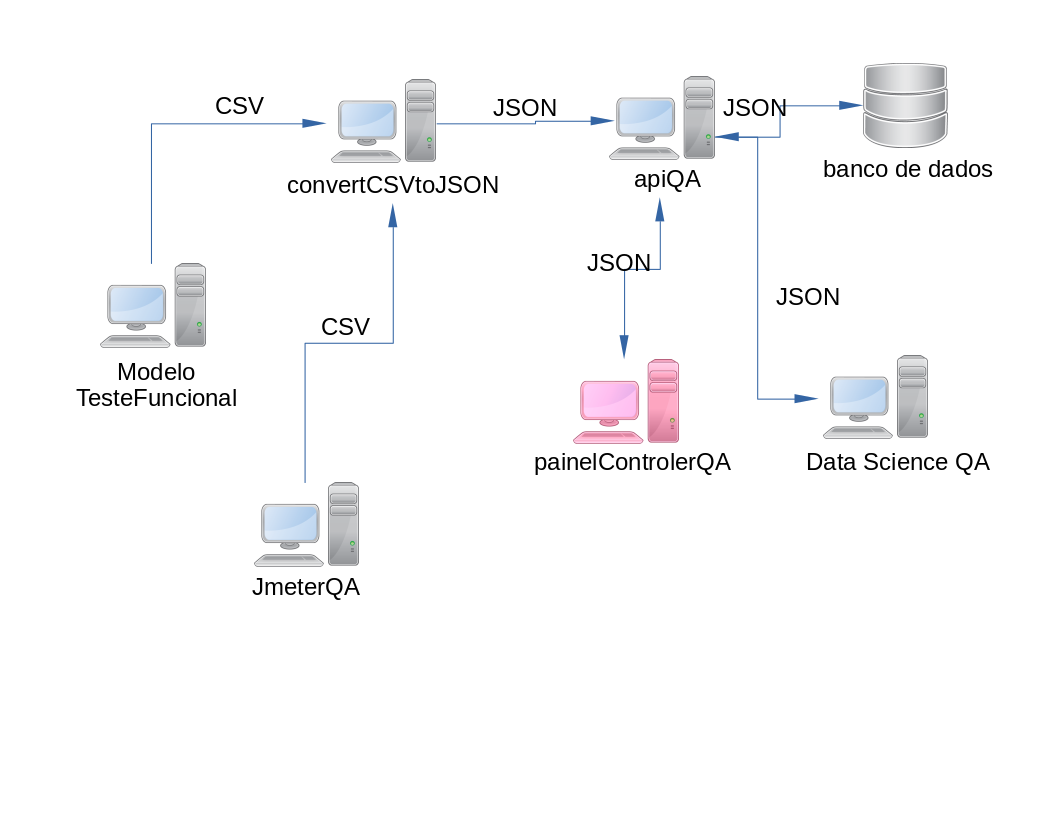
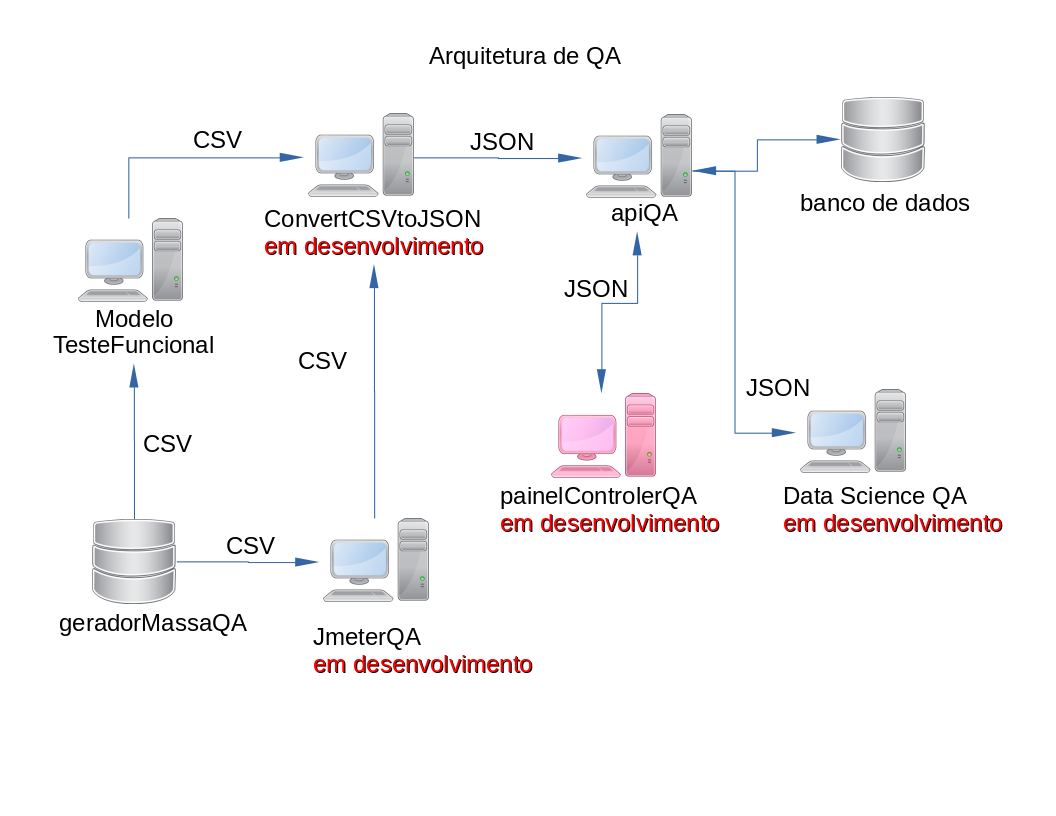
diagrama

diff --git a/README.md b/README.md
@@ -8,13 +8,7 @@
 
 
 ![Semantic description of image](./diagrama.png)</p>
-<h3> &nbsp;&nbsp;&nbsp;&nbsp;&nbsp;&nbsp;&nbsp;&nbsp;&nbsp;&nbsp;&nbsp;&nbsp;&nbsp;
-&nbsp;&nbsp;&nbsp;&nbsp;&nbsp;&nbsp;&nbsp;&nbsp;&nbsp;&nbsp;&nbsp;&nbsp;&nbsp;
-&nbsp;&nbsp;&nbsp;&nbsp;&nbsp;&nbsp;&nbsp;&nbsp;&nbsp;&nbsp;&nbsp;&nbsp;&nbsp;
-&nbsp;&nbsp;&nbsp;&nbsp;&nbsp;&nbsp;&nbsp;&nbsp;&nbsp;&nbsp;&nbsp;&nbsp;&nbsp;
-&nbsp;&nbsp;&nbsp;&nbsp;&nbsp;&nbsp;&nbsp;&nbsp;&nbsp;&nbsp;&nbsp;&nbsp;&nbsp;
- Arquitetura do projeto </h3>
- 
+
 > ** Ferramentas de desenvolvimento ** </br>
 > * Angular - versão 8
 > * BootStrap
@@ -31,6 +25,12 @@
 
 > __convert CSV to JSON__
 > [GitHub Pages](https://github.com/marcosregato/convertCSVtoJSON).</br>
+
+> __Data Science QA__
+> [GitHub Pages](https://github.com/marcosregato/dataScienceQA).</br>
+
+> __Gerador massa de dados QA__
+> [GitHub Pages](https://github.com/marcosregato/geradorMassaQA).</br>
 
 
 
